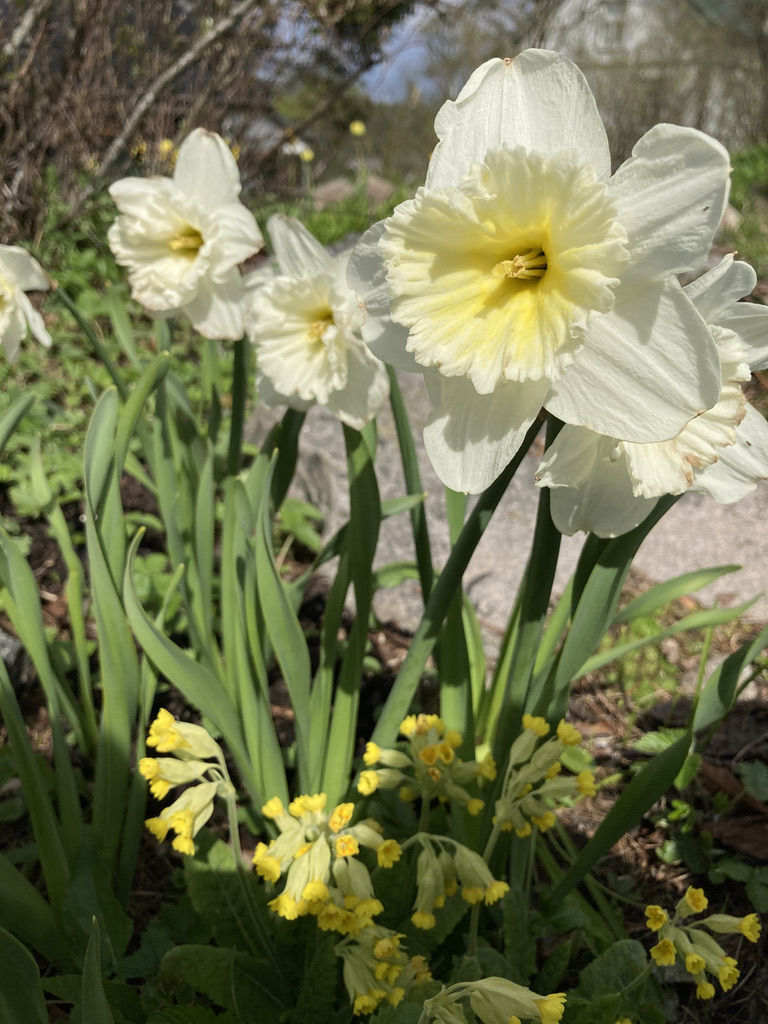
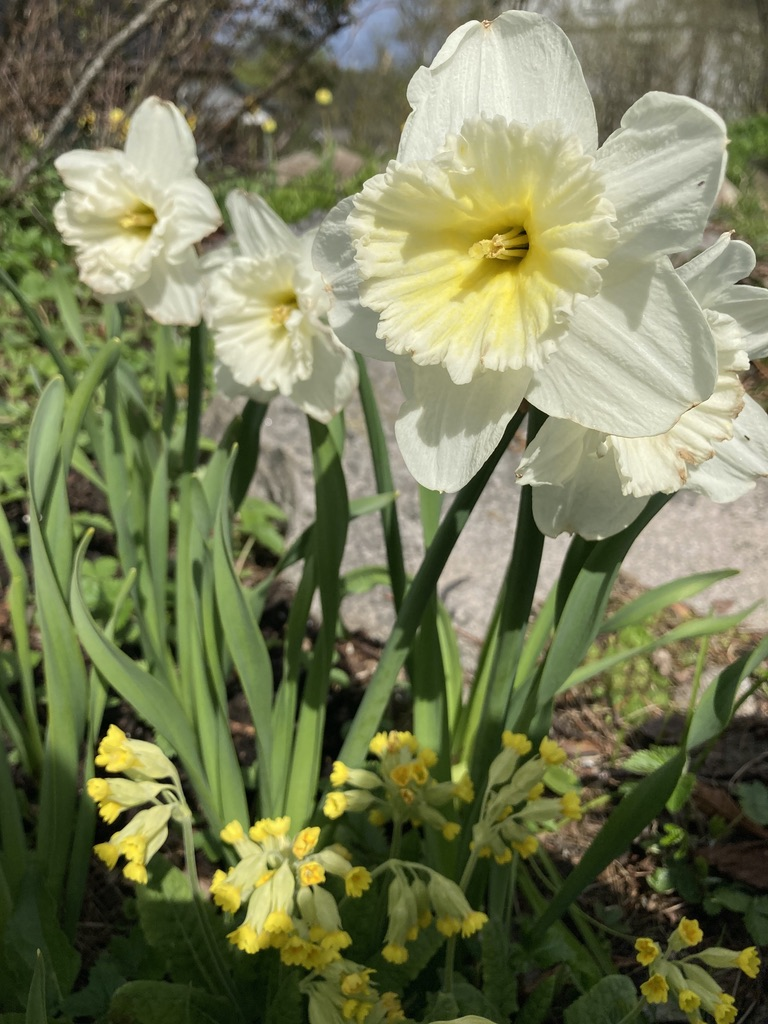
padding for pics

diff --git a/tyyli.css b/tyyli.css
@@ -1,0 +1,7 @@
+h1 {
+    padding-left: 2em;
+}
+img {
+    padding: 5em;
+    width: 80%;
+}
